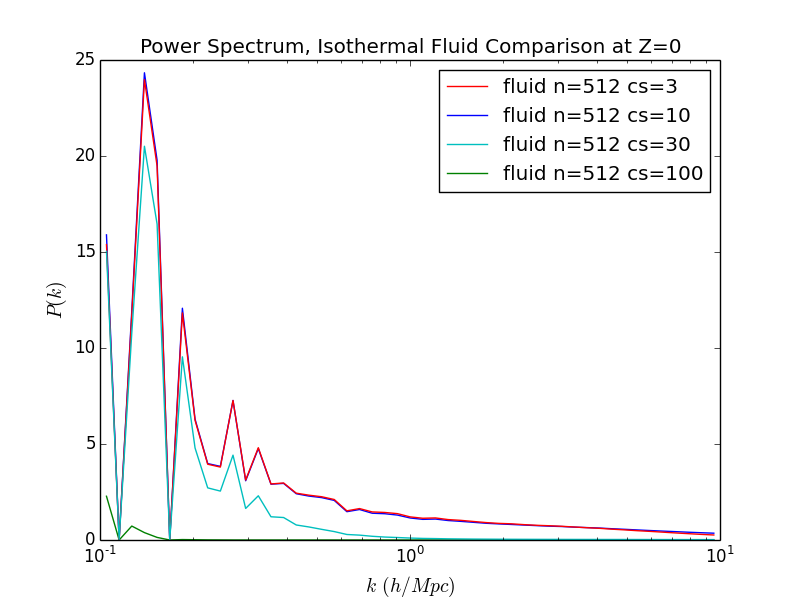
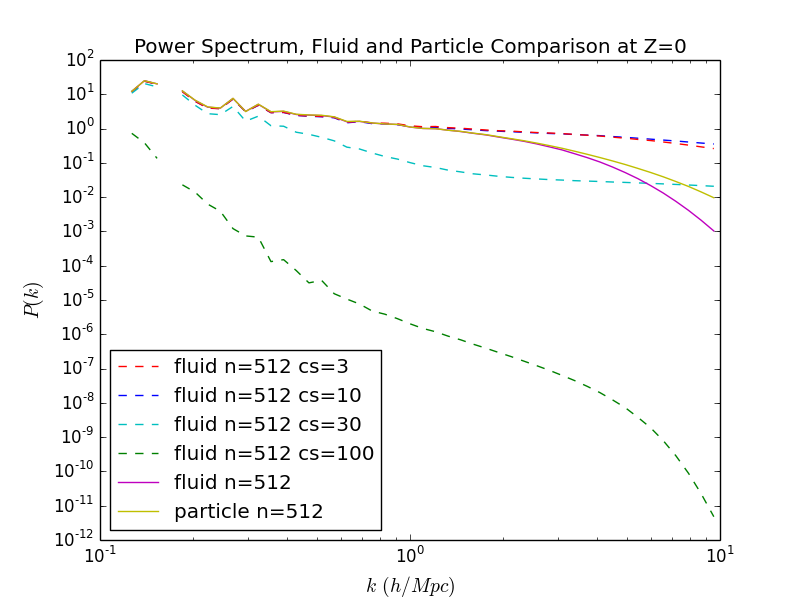
Added standard fluid and particle data to ps plot. Changed y-axes to log.

diff --git a/plots/isothermal/isothermal_fluid_all.py b/plots/isothermal/isothermal_fluid_all.py
@@ -9,30 +9,36 @@ results = os.listdir(result_dir)
 isothermalpattern = re.compile(r'_isothermal(\d+)')
 npattern = re.compile(r'_n(\d+)')
 
-simtypes = ['fluid']
+simtypes = ['fluid', 'particle']
 for simtype in simtypes:
-    params = [simtype,'b100','n512','t0.005','h2','isothermal']
+    params = [simtype,'b100','n512','t0.005','h2']
     filenames = [filename for filename in results if all(param in filename for param in params)]
-    base = 'fluid_b100_n512_t0.005_h2_z50.out'
-    
-    kvalues_base, ps_base = np.loadtxt(result_dir+base, unpack=True)
 
     for filename in filenames:
-        isothermal = isothermalpattern.findall(filename)[0]
         n = npattern.findall(filename)[0]
+        label = simtype+' n='+n
+        if 'isothermal' in filename:
+            isothermal = isothermalpattern.findall(filename)[0]
+            label += ' cs='+isothermal
         kvalues, ps = np.loadtxt(result_dir+filename, unpack=True)
-        style = '--' if 'particle' in filename else '-'
-        plt.semilogx(kvalues, ps, style, label=simtype+' n='+n+' cs='+isothermal)
+        style = '--' if 'isothermal' in filename else '-'
+        plt.loglog(kvalues, ps, style, label=label)
 
 # Sort legend numerically by sound speed.
+def sortlabels(item):
+    if len(item[1].split(' ')) > 2:
+        return int(item[1].split(' ')[2].split('=')[1])
+    else:
+        return item[1].split(' ')[0]
+
 handles, labels = plt.gca().get_legend_handles_labels()
-hl = sorted(zip(handles, labels), key=lambda item:  int(item[1].split(' ')[2].split('=')[1]))
+hl = sorted(zip(handles, labels), key=lambda item: sortlabels(item))
 handles2, labels2 = zip(*hl)
 
 plt.xlim([1e-1,1e1])
 plt.xlabel('$k \, (h/Mpc)$', fontsize=14)
 plt.ylabel('$P(k)$', fontsize=14)
-plt.title('Power Spectrum, Isothermal Fluid Comparison at Z=0')
+plt.title('Power Spectrum, Fluid and Particle Comparison at Z=0')
 plt.legend(handles2, labels2, numpoints=1, loc='best')
 plt.savefig('isothermal_fluid_all.png')
 
